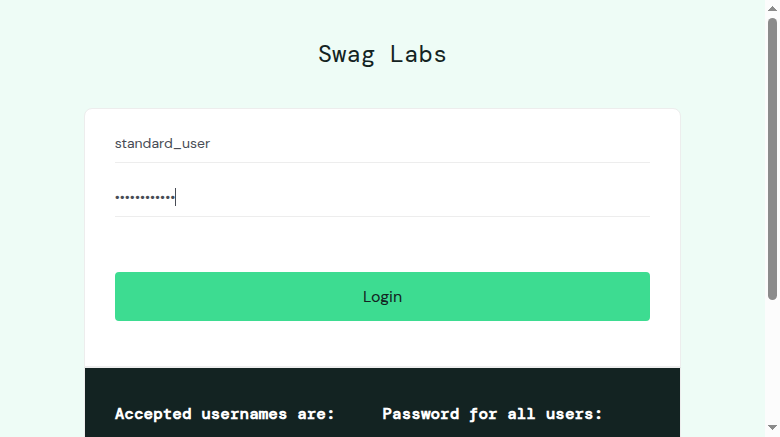
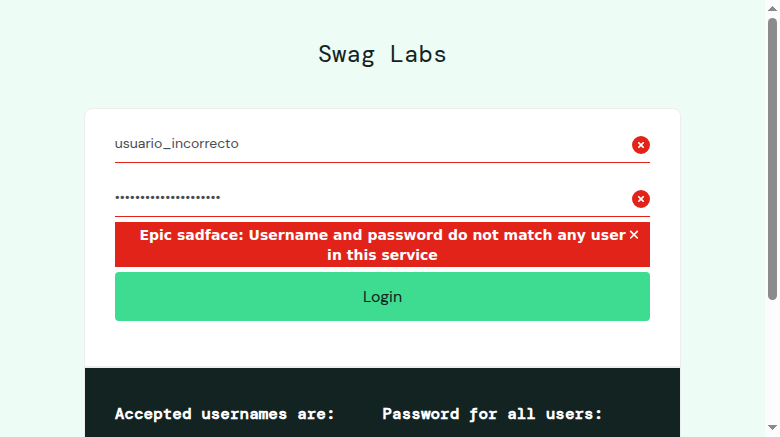
feat: actividad 3: Interacción con productos del carrito implementada

diff --git a/tests/test_saucedemo.py b/tests/test_saucedemo.py
@@ -38,6 +38,21 @@ def test_login_exitoso(driver):
     assert titulo.text == "Products"
     print('Título de sección OK →', titulo.text)
 
+# Verifica que un usuario no pueda iniciar sesión con credenciales incorrectas. (ACTIVIDAD 1)
+def test_login_incorrecto(driver):
+    abrir_saucedemo(driver)
+ 
+    # Intentar iniciar sesión con credenciales incorrectas
+    realizar_login(driver, "usuario_incorrecto", "contrasena_incorrecta")
+
+    # Tomamos una captura de pantalla del error
+    take_screenshot(driver, "captura2.png")
+
+    # Verificar que aparezca un mensaje de error
+    mensaje_error = driver.find_element(By.CSS_SELECTOR, 'h3[data-test="error"]')
+    assert mensaje_error.is_displayed()
+    print('Mensaje de error:', mensaje_error.text)
+
 # Verifica que el catálogo de productos se muestre correctamente. (ACTIVIDAD 2)
 def test_catalogo_y_elementos(driver):
     abrir_saucedemo(driver)
@@ -67,6 +82,31 @@ def test_catalogo_y_elementos(driver):
     assert filtro.is_displayed()
     carrito = driver.find_element(By.CLASS_NAME, "shopping_cart_link")
     assert carrito.is_displayed()
+
+# Verifica que un usuario pueda agregar un producto al carrito y que este se actualice correctamente. (ACTIVIDAD 3)
+def test_carrito(driver):
+    abrir_saucedemo(driver)
+
+    # Inicia sesión con credenciales válidas
+    iniciar_sesion(driver)
+
+    # Agregar el primer producto al carrito
+    primer_producto = driver.find_element(By.CLASS_NAME, "inventory_item")
+    boton_agregar = primer_producto.find_element(By.ID, "add-to-cart-sauce-labs-backpack")
+    boton_agregar.click()
+
+    # Verificar que el carrito tenga 1 artículo
+    carrito = driver.find_element(By.CLASS_NAME, "shopping_cart_badge")
+    assert carrito.text == "1"
+    print('Carrito actualizado correctamente con 1 artículo.')
+
+    # Navegar al carrito y verificar que el producto esté presente
+    carrito.click()
+    take_screenshot(driver, "captura4.png")
+    producto_en_carrito = driver.find_element(By.CLASS_NAME, "cart_item")
+    nombre_producto_carrito = producto_en_carrito.find_element(By.CLASS_NAME, "inventory_item_name").text
+    assert nombre_producto_carrito == "Sauce Labs Backpack"
+    print(f'Producto en carrito: {nombre_producto_carrito}')
 
 # Función auxiliar para realizar el login desde los tests que lo necesiten.
 def iniciar_sesion(driver):

diff --git a/utils/funciones_saucedemo.py b/utils/funciones_saucedemo.py
@@ -24,7 +24,7 @@ def realizar_login(driver, usuario, contraseña):
     campo_usuario.send_keys(usuario) 
     campo_contraseña = driver.find_element(By.ID, "password") 
     campo_contraseña.send_keys(contraseña) 
-    take_screenshot(driver, "captura2.png")
+    print('Usuario y contraseña ingresados →', usuario, contraseña)
     boton_login = driver.find_element(By.CSS_SELECTOR, 'input[type="submit"]')
     boton_login.click() 
 

diff --git a/extras/consignaPre-entrega.md b/extras/consignaPre-entrega.md
@@ -39,6 +39,16 @@ Valida título
 Valida presencia de productos 
 Lista nombre/precio del primero.
 
+# Interacción con productos: (Clase 8)
+Caso de prueba de carrito:
+Añadir un producto al carrito haciendo clic en el botón correspondiente
+Verificar que el contador del carrito se incremente correctamente
+Navegar al carrito de compras
+Comprobar que el producto añadido aparezca correctamente en el carrito
+Criterios mínimos:
+Agrega primer producto 
+Verifica ítem en carrito.
+
 # Repositorio en GitHub:
 Subí el proyecto a un repositorio en GitHub
 Realizá commits frecuentes y con mensajes descriptivos que muestren el progreso del proyecto

diff --git a/README.md b/README.md
@@ -62,8 +62,9 @@ python3 -m pytest tests/test_saucedemo.py -s -v --html=reporte.html
 ## ✨ Características Adicionales
 Capturas de pantalla automáticas, conformandose asi estos archivos:
    - **captura.png:** carga exitosamente a la página de sauce demo
-   - **captura2.png:** relleno de formulario de sesion correctamente
+   - **captura2.png:** relleno de formulario de sesion incorrectamente
    - **captura3.png:** redirección a la pagina de productos luego de iniciar sesion
+   - **captura4.png:** redirección a la pagina de carrito luego de agregar un producto
 
 Funciones auxiliares reutilizables: En el archivo funciones_saucedemo.py.
 
